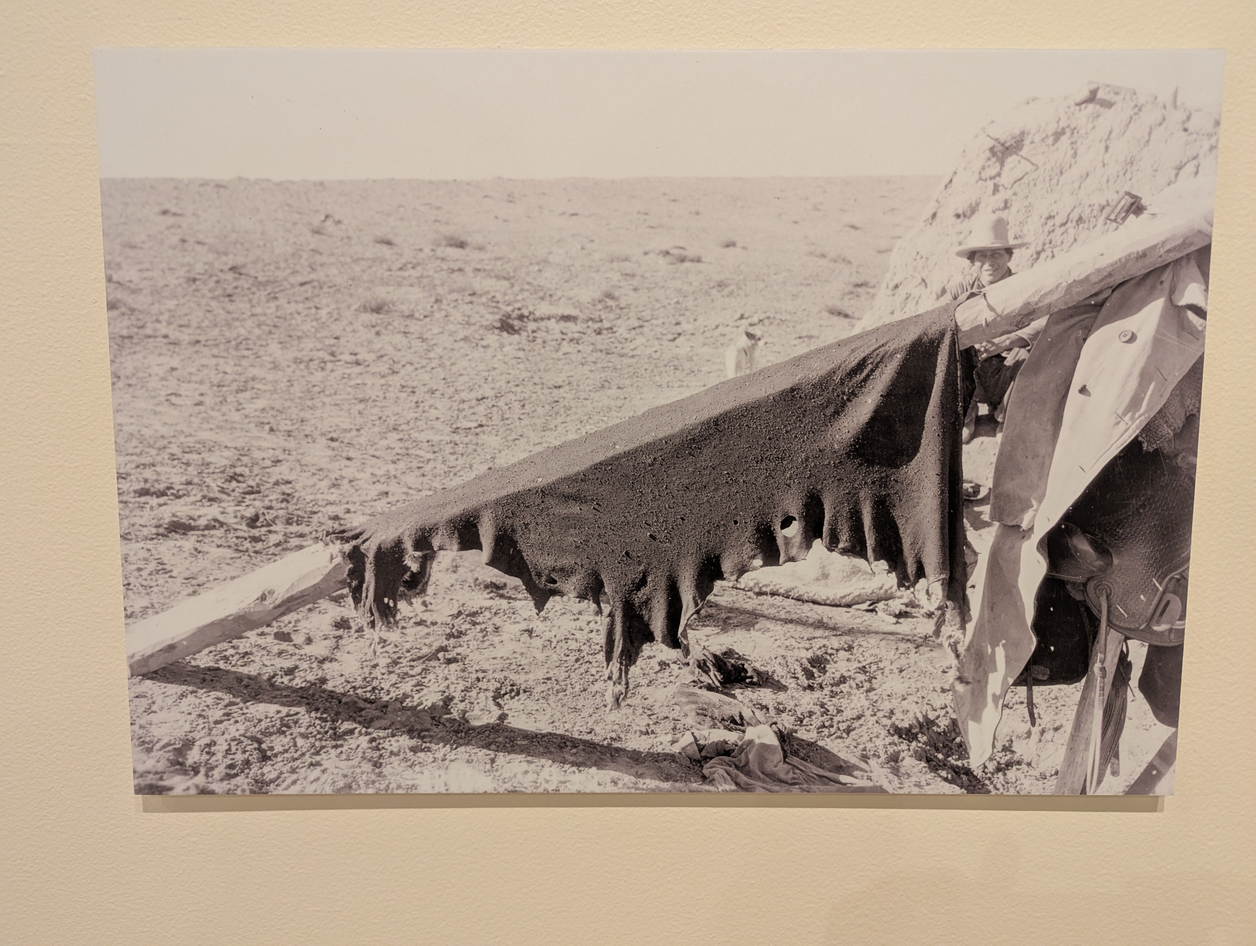
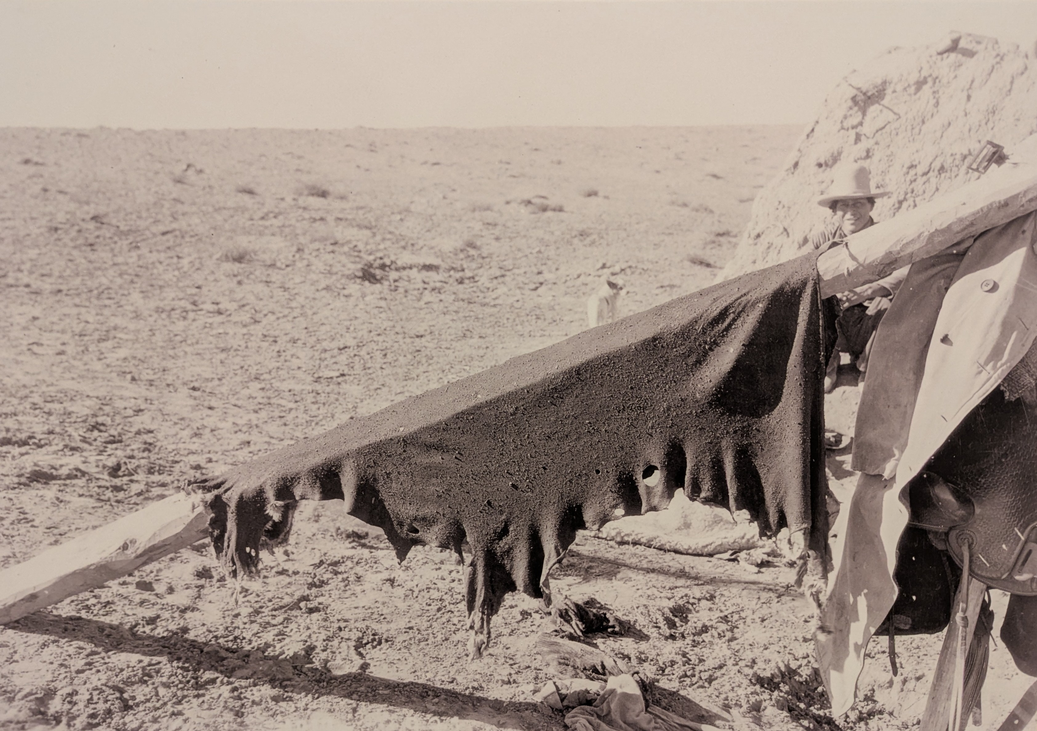
Add Milton Snow photo essay and update images
Add a substantial photographic essay for Milton Snow to index.md (biography, figures, carousel, jumbotron, and multiple scrollybox sections). Update site styling by changing --bg-card to --bone in assets/css/base.css. Replace and update several image assets (add big-belly-nephew-dannie-bia-2.jpg and remove the old big-belly file; update drying-scrollybox, for-switch-back-drying-1, for-switch-back-drying-2, jumbo-view, and san-francisco-peaks images). Update .jekyll-metadata to reflect the changes. These changes add new content and refresh media used by the essay and layout components.

diff --git a/assets/css/base.css b/assets/css/base.css
@@ -52,7 +52,7 @@ PAGE SETUP & CUSTOMIZATION
   /* ===== SEMANTIC COLOR SYSTEM ===== */
   /* Backgrounds */
   --bg-page: var(--espresso-brown);
-  --bg-card: var(--warm-light);
+  --bg-card: var(--bone);
   --bg-accent: var(--golden-wash);
   --bg-code: var(--sage-pale);
   --bg-nav: var(--golden-clay-dark);

diff --git a/index.md b/index.md
@@ -16,6 +16,269 @@ tags:
     - campus
 ---
 
+# A Photographic Laboratory
+{% include images/figure.html
+class="right"
+width="25%"
+alt-text="A portrait of Milton Snow"
+caption="Portrait of Milton Snow (Window Rock), by Avery Edwin Field. [Source: Maxwell Museum of Anthropology, courtesy of the Museum of Northern Arizona, MS315-106-3.](https://maxwellmuseum.unm.edu/)"
+image-path="/assets/images/milton-snow-himself.jpg"
+%}
+
+## Milton Snow (1905-1986)
+
+Milton 'Jack' Snow was born in Ensley, Alabama on April 9, 1905, to Maude May Acuff and Joseph Willis Snow. After his family moved to southern California when he was a child, Snow attended Riverside Polytechnic High School where he was introduced
+to photography. Snow had a speech impediment alongside difficulty with activities requiring fine motor control. 
+
+<br style="clear: both">
+
+{%
+include typography/aside.html
+class="left"
+width="40%"
+text="His older sister reported that Snow '...was a demon for self-discipline: shaved with a straight razor in the dark to develop control. Honestly ... (my brother) was a perfectionist.'"
+%}
+
+<br style="clear: both">
+
+Snow's dedication to honing his skills with a camera eventually led him to work for the Van Bergen-Los Angeles County Museum where he photographed archeological excavations. Over the course of twenty years, from 1937 to 1957, Snow produced thousands of images of Dine people, homes, and landscapes. 
+
+
+
+{::nomarkdown}
+</div> <!-- close main container -->
+
+<div class="section-alt">
+  <div class="container">
+{:/nomarkdown}
+
+{% include images/figure.html
+class="left"
+width="45%"
+alt-text="A portrait of Big Belly's nephew and Dannie Bia with old-style saddle."
+caption="A portrait of Big Belly's nephew and Dannie Bia with old-style saddle. Red Lake (Tolani Lakes, Leupp, AZ), 1935-1936. [Source: Maxwell Museum of Anthropology Archives 87.45.268](https://maxwellmuseum.unm.edu/)"
+image-path="/assets/images/big-belly-nephew-dannie-bia-2.jpg"
+%}
+
+**All were intended to provide proof that federal technologies were in fact working to "rehabilitate" Navajo lands and lives. Instead, Snow's photographs demonstrate the aftermath of the immense harm inflicted on Dine communities during this period.**
+
+
+
+{::nomarkdown}
+  </div>
+</div>
+{:/nomarkdown}
+
+{::nomarkdown}
+<div class="container"> <!-- reopen main container -->
+{:/nomarkdown}
+
+
+
+
+
+
+{% include images/jumbotron-gradient.html
+  image-path="/assets/images/san-francisco-peaks-for-switch-back-landscape-1.jpg"
+  fade-start="50%"
+  fade-end="100%"
+  title=""
+  text="
+
+<br>
+<br>
+<br>
+<br>
+
+### Despite their origins as instruments of assimilationist propaganda, today the images serve as a rich repository of history and culture for the Dine, who remember when sheep, goats, and horses were the bedrock of a thriving economy.
+
+<br>
+<br>
+<br>
+<br>
+
+"
+%}
+
+<br style="clear: both">
+<br style="clear: both">
+
+**Thousands of his pictures show Dine looking straight at the camera lens, standing in marked contrast to more commonly seen historic images of Indigenous people in which they clearly did not want to be photographed.**
+
+
+{% 
+assign images = 
+"/assets/images/man-baby-teec-nos-pos.jpg,
+/assets/images/everett-mccabe.jpg,
+/assets/images/mccabe-wife.jpg,
+/assets/images/child-washington-pass.jpg" | split: ','
+%}
+
+{%
+assign captions = 
+"Navajo man and his baby at Tosa Nos Pos, sic (Teec Nos Pos), AZ, 1935|
+Everett McCabe. Red Lake (Tolani Lakes, Leupp, AZ), 1935-1936|
+Everett McCabe's wife. Red Lake (Tolani Lakes, Leupp, AZ), 1935-1936|
+Navajo child (boy). Washington Pass (near NM and AZ border), 1935|
+" | split: '|'
+%}
+
+{% include images/carousel.html
+width = "80%"
+class = "center"
+images = images
+headers = headers
+captions = captions 
+%}
+
+<br style="clear: both">
+<br style="clear: both">
+
+{::nomarkdown}
+</div> <!-- close main container -->
+
+<div class="section-alt">
+  <div class="container">
+{:/nomarkdown}
+
+**In one photograph, Snow sits next to an elder, with his proximity suggesting that he knew the family of the elder and had taken their photographs several times. In the convention of early American studio portraits, Snow's photographs of individual Dine are often labeled with names and places. He was also known to give copies of the portraits to the person who sat for him.**
+
+**Today, as we gaze at these beautifully rendered portraits, we are drawn to peoples' faces, to the light reflecting in their eyes, wrinkles etched in skin, the shape of a mouth.**
+
+**We examine in detail the clothing, the buttons on a suit, the American coins fastened to a woman's velveteen collar, the schoolgirl's blouse.**
+
+
+
+{::nomarkdown}
+  </div>
+</div>
+{:/nomarkdown}
+
+{::nomarkdown}
+<div class="container"> <!-- reopen main container -->
+{:/nomarkdown}
+
+
+
+
+
+
+<br style="clear: both">
+<br style="clear: both">
+<br style="clear: both">
+<br style="clear: both">
+
+{% 
+include scrollybox/bg.html
+above-box-space="50vh"
+below-box-space="50vh"
+height="200vh"
+image-path="/assets/images/landscape-scrollybox.jpg"  
+box-content=" 
+### Civil Works Administration Project
+In 1934, Snow was hired to work on the Civil Works Administration Project at Wupatki National Monument in Arizona as the photographer and special excavation expert. He then joined the Museum of Northern Arizona in Flagstaff to establish a photographic laboratory. While working in Gallup, New Mexico with the federal Soil Conservation Service in 1935 and 1936, Snow was hired by the Navajo Service to document the supposed improvements to life in Dine Bikeyah following livestock reduction."
+%}
+
+<br style="clear: both">
+<br style="clear: both">
+<br style="clear: both">
+<br style="clear: both">
+
+# Portraits of a Community: K'é (Kinship)
+
+Milton Snow's photographs are unique for the era in which they were made because they suggest that he had positive relationships with his subjects. While we don't know much about what Snow thought of his Dine subjects, it's often remarked that he appeared to be accepted by Dine and that he took photographs in an ethical and responsible manner. 
+
+<br style="clear: both">
+<br style="clear: both">
+<br style="clear: both">
+<br style="clear: both">
+
+
+{% include images/jumbotron.html
+  height="70vh"
+  image-path="/assets/images/jumbo-view.jpg"
+  alt-text="Photograph of a tug of war game with audience cheering on. Tug-o-War, at the fourth of July celebration. Steamboat Canyon, AZ, 1935."
+  title=""
+%}
+
+
+
+
+Tug-o-War, at the fourth of July celebration, Steamboat Canyon, AZ, 1935
+Source: Maxwell Museum of Anthropology Archives, 87.45.348
+
+<br style="clear: both">
+<br style="clear: both">
+<br style="clear: both">
+<br style="clear: both">
+
+# We imagine Navajo life in the early nineteenth century and think of our ancestors, our grandparents and our parents. 
+
+<br style="clear: both">
+<br style="clear: both">
+<br style="clear: both">
+<br style="clear: both">
+
+{% 
+include scrollybox/bg.html
+above-box-space="50vh"
+below-box-space="50vh"
+height="200vh"
+image-path="/assets/images/drying-scrollybox-ah-tso-lige.jpg"  
+box-content=" 
+And we are reminded that the foundation of Dine life, despite and against John Collier's plans to remake Dine into images of American citizens, is the concept of K'é, relationships of how we treat each other with respect, love, and compassion. K'é, as the foundation of the Navajo Nation, extends to Mother Earth and Father Sky and to all beings. K'é endures and we extend kinship and remember through visual images such as Snow's."
+%}
+
+## Moments in Diné Bikéyah:
+
+# Landscape, Community, and Home
+
+For Dine people, knowledge of self and community is rooted in a distinctive sense of
+place. 
+
+Place-making is an active cultural and political activity-landscapes both hold
+and generate identities, memories, stories, histories, and knowledge systems. Dine
+Bikeyah, the land between the four sacred mountains, is the foundation of Dine life and teachings.
+
+
+{% include scrollybox/bg-multi-long.html
+  bg-id="bg1"
+  image-path="/assets/images/for-switch-back-drying-1-mccabe.jpg"
+  above-box-space="3"
+%}
+
+
+
+{% include scrollybox/bg-switch.html
+  image-path="/assets/images/for-switch-back-drying-2-raphael-begay.jpg"
+  switch-id="switch1"
+  bg-id="bg1"
+  below-box-space="800"
+%}
+
+Hung to Dry (Hunter's Point, AZ), 2017
+
+Rapheal Begay (Dine)
+
+Archival inkjet print
+
+Courtesy of the artist
+
+This image is one of many fond memories I have of my family's homestead in Tse Nashchii'(Hunter's Point, Arizona). Upon showing up late to the sheep butchering, I ventured out the backdoor of my grandmother's home and came across this scene of hanging ak'ah (sheep fat) on the clothesline. In this moment I was transported back to my youth when I was tasked with holding it up to the sun to dry. Now, I often wonder who will be there to hold the ak'ah as we grow older and as our ways of life continue to develop, change, and evolve.
+
+
+{% include scrollybox/bg-multi-long-close.html after-space="3000" %}
+
+
+
+
+
+
+
+
+
+
+
 # A Seedling Essay
 This essay demonstrates the **simplest ScrollStory approach**—perfect if you're just learning Markdown or want students to focus on writing rather than complex formatting. As you scroll through, notice the clean, uncluttered design that lets content breathe.
 
